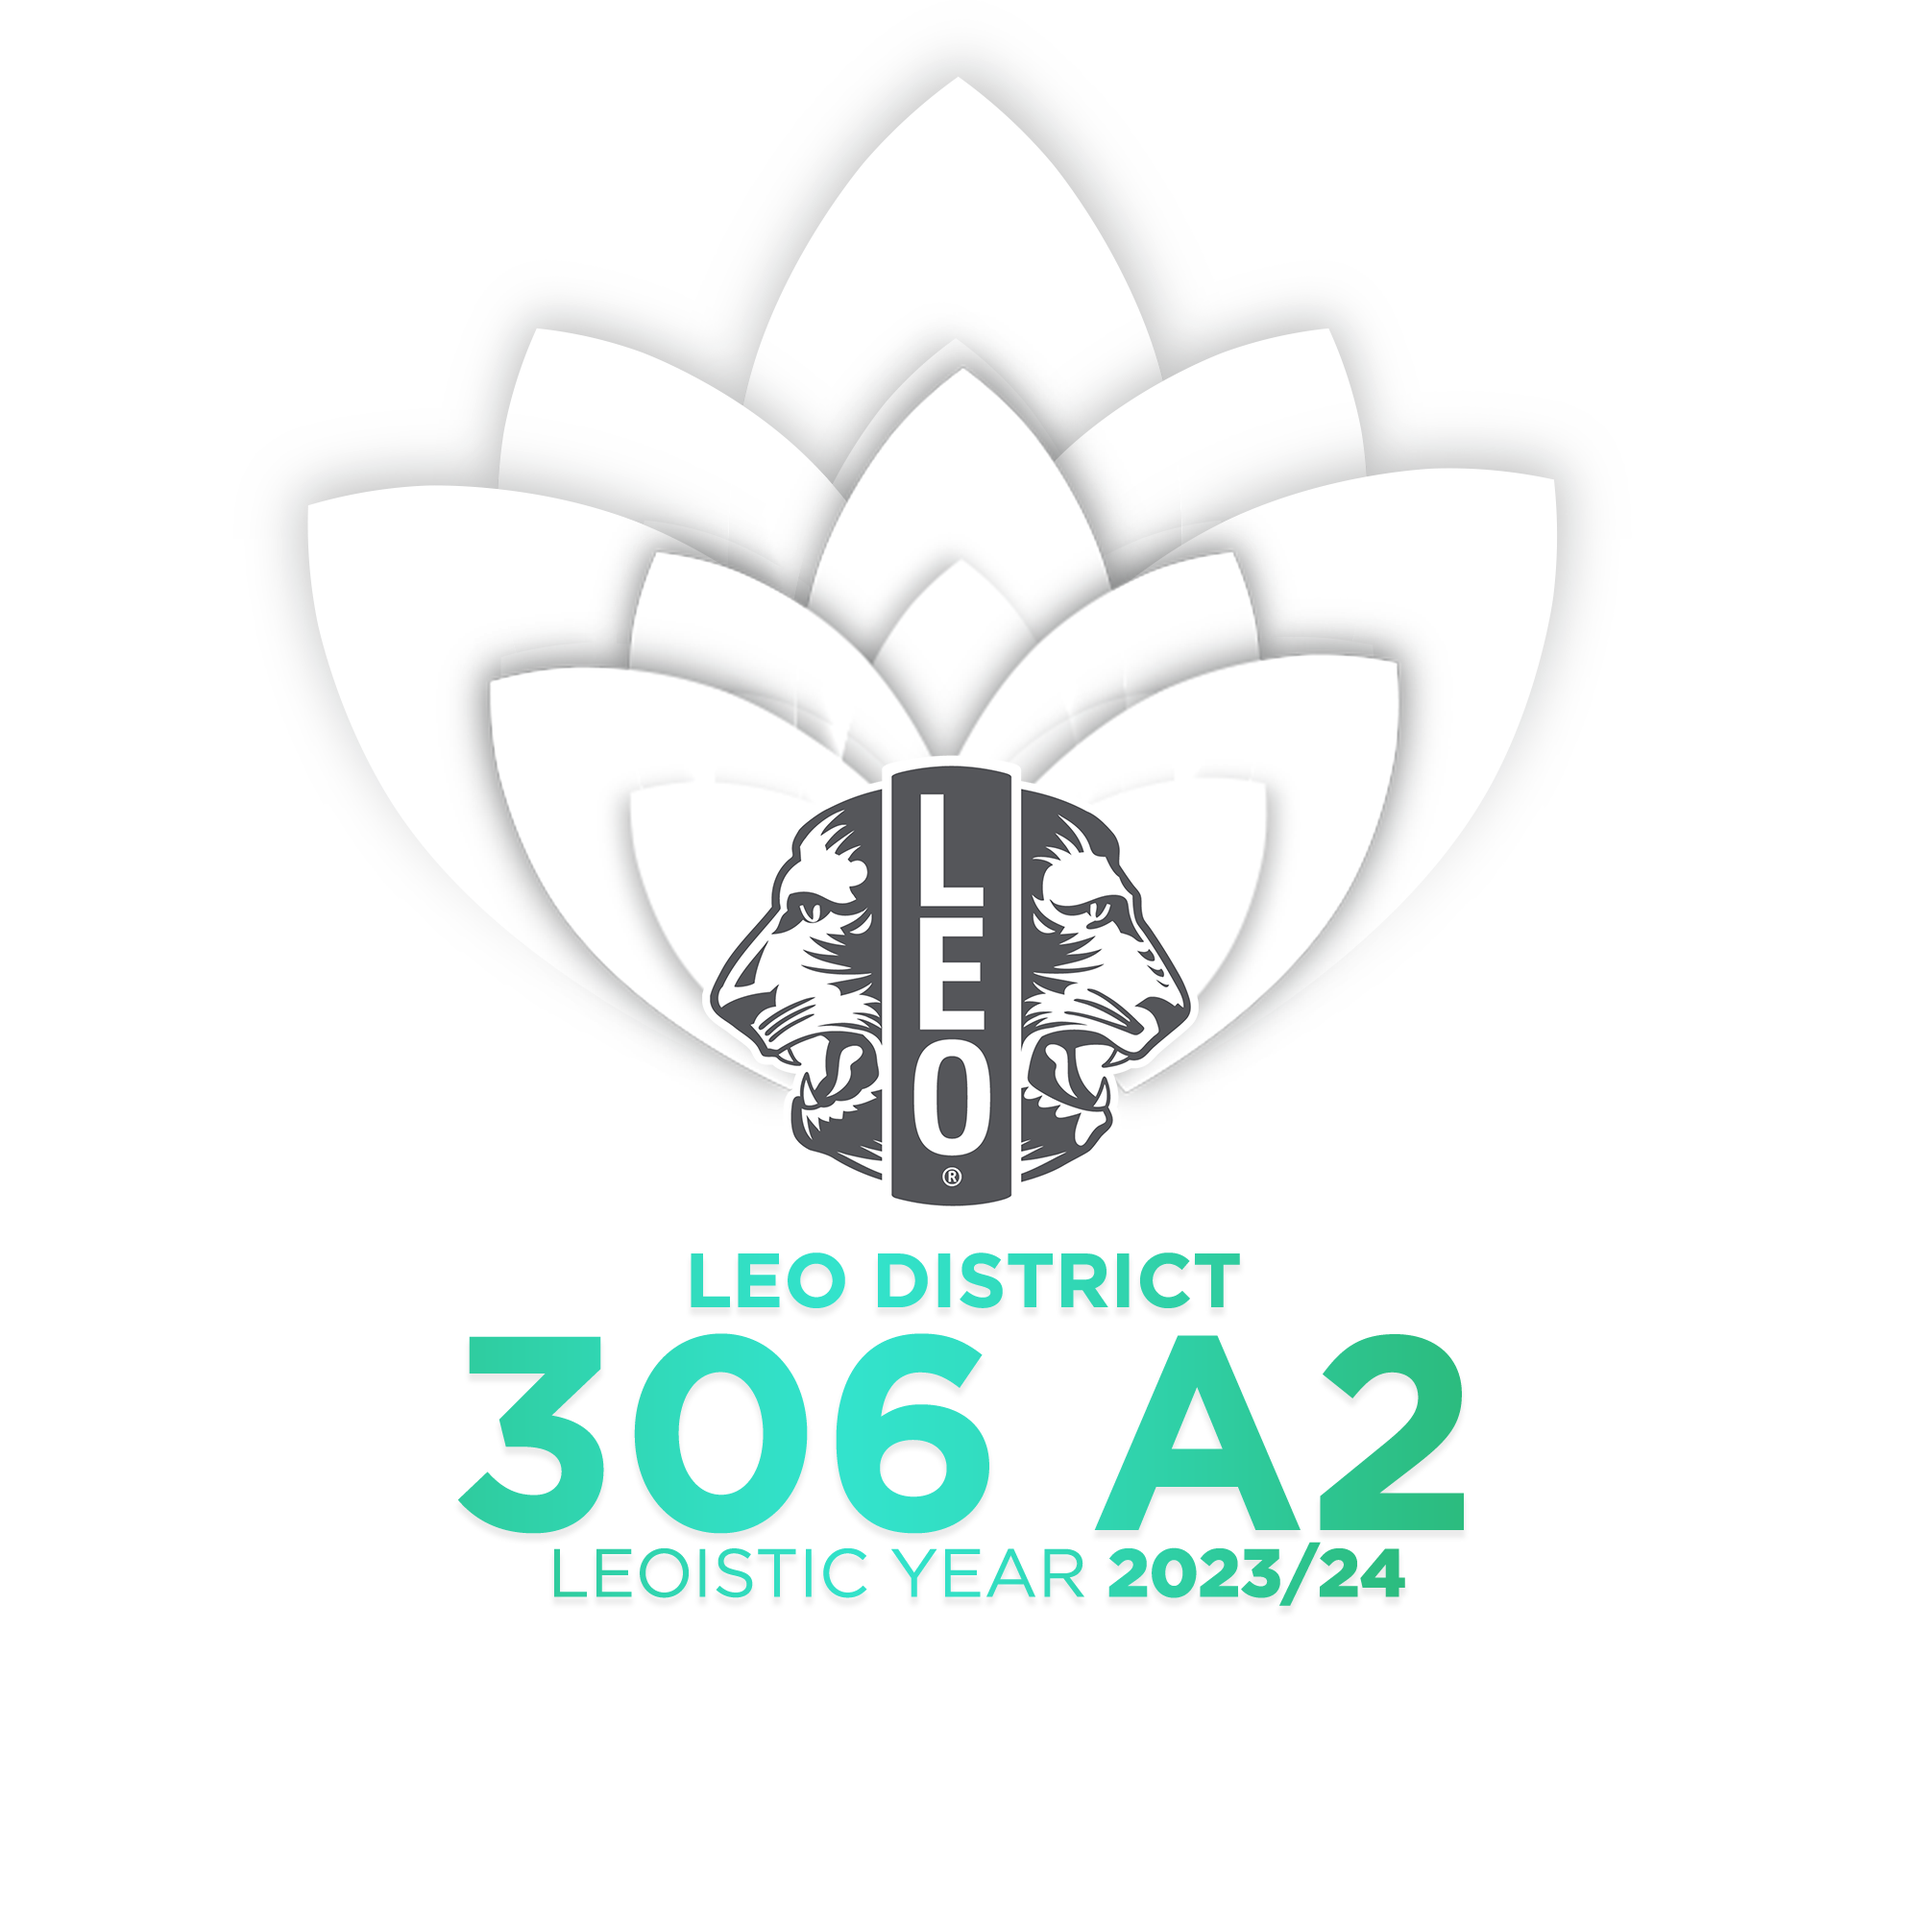
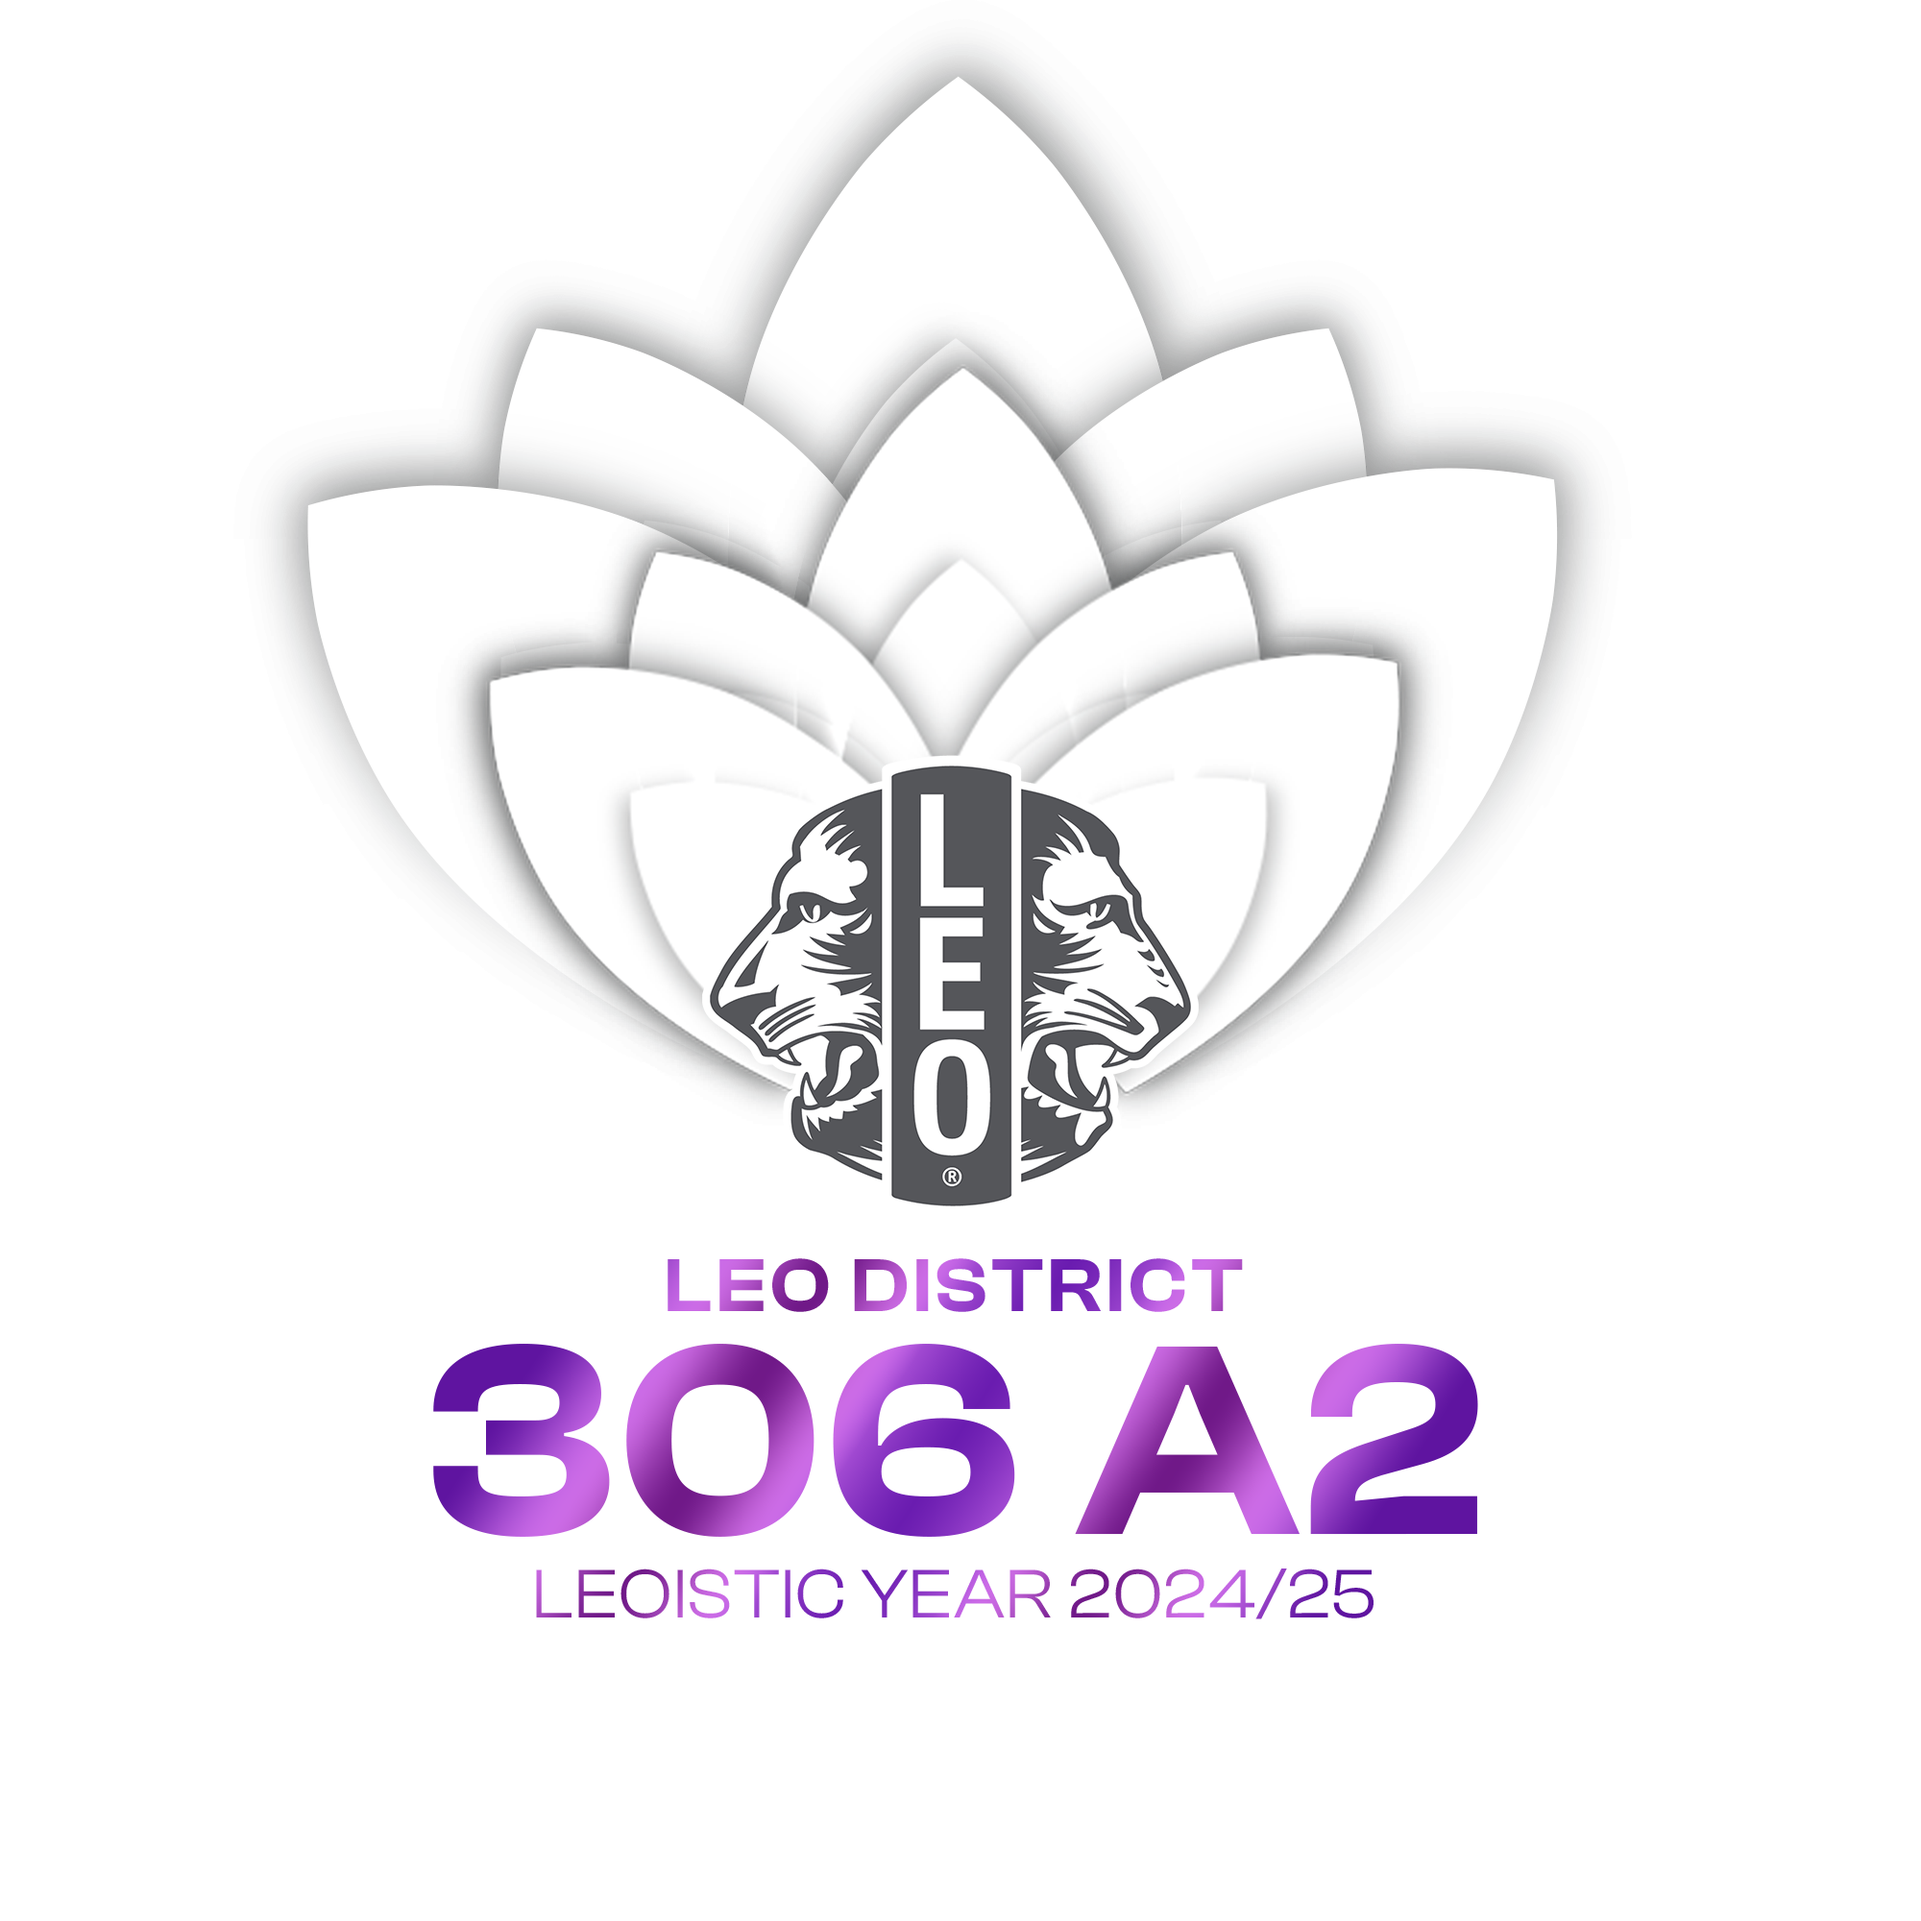
Update Home Page

diff --git a/assets/css/style.css b/assets/css/style.css
@@ -352,6 +352,7 @@ A2 CLUBS SECTION
 .nav-menu ul {
   margin: 0;
   padding: 0;
+  padding-right: 50px;
   list-style: none;
 }
 
@@ -473,7 +474,7 @@ A2 CLUBS SECTION
   font-size: 48px;
   display: inline-block;
   margin-bottom: 10px;
-  color: #46d1bf;
+  color: #cb6ce6;
 }
 
 #contact .contact-info address, #contact .contact-info p {
@@ -634,7 +635,7 @@ A2 CLUBS SECTION
 }
 
 .join-now {
-  background: linear-gradient(to right, #141542, #2bb673);
+  background: linear-gradient(to right, #3a0a64, #cb6ce6);
   border-radius: 50px 0 0 50px;
   border-right: 1px solid rgba(0, 0, 0, 0.2);
 }
@@ -651,16 +652,16 @@ A2 CLUBS SECTION
 
 .sign-in, .signed-user {
   border-radius: 0 50px 50px 0;
-  background: linear-gradient(to left, #141542, #2bb673);
+  background: linear-gradient(to left, #3a0a64, #cb6ce6);
   border-left: 1px solid rgba(0, 0, 0, 0.2);
 }
 
 .join-now:hover {
-  background: linear-gradient(to left, #141542, #2bb673);
+  background: linear-gradient(to left, #3a0a64, #cb6ce6);
 }
 
 .sign-in:hover, .signed-user:hover {
-  background: linear-gradient(to right, #141542, #2bb673);
+  background: linear-gradient(to right, #3a0a64, #cb6ce6);
 }
 
 .appointment-btn:hover {
@@ -933,7 +934,7 @@ section {
   margin-bottom: 20px;
   padding-bottom: 20px;
   position: relative;
-  color: #46d1bf;
+  color: #cb6ce6;
 
 }
 
@@ -958,7 +959,7 @@ section {
   display: block;
   width: 40px;
   height: 3px;
-  background: #46d1bf;
+  background: #cb6ce6;
   bottom: 0;
   left: calc(50% - 20px);
 }
@@ -1647,7 +1648,7 @@ section {
   font-size: 48px;
   display: block;
   font-weight: 700;
-  color: #46d1bf;
+  color: #cb6ce6;
 }
 
 .counts2 .counters span {
@@ -2428,7 +2429,7 @@ section {
 #footer .social-links a , .view-club-social-link a{
   font-size: 18px;
   display: inline-block;
-  background: #46d1bf;
+  background: #cb6ce6;
   color: #fff;
   line-height: 1;
   padding: 9px 0;
@@ -2537,7 +2538,7 @@ section {
 }
 
 .nav-pills .nav-link.active {
-  background-color: #2bb673!important;
+  background-color: #6a1cb0!important;
   font-weight: bold;
 }
 
@@ -2548,19 +2549,19 @@ section {
 .nav-tabs .nav-link {
   color: white;
   border: none;
-  border-bottom: 1px solid #2bb673;
+  border-bottom: 1px solid #6a1cb0;
 }
 
 .nav-tabs .nav-item.show .nav-link, .nav-tabs .nav-link.active {
   background-color: transparent!important;
-  border: 1px solid #2bb673;
+  border: 1px solid #6a1cb0;
   border-bottom: none!important;
   font-weight: bold;
   color: white;
 }
 
 .nav-tabs .nav-link:hover {
-  border-bottom-color: #2bb673;
+  border-bottom-color: #6a1cb0;
 }
 
 .club-list ul li {
@@ -2642,7 +2643,7 @@ section {
   height: 36px;
   font-size: 12px;
   font-weight: bold;
-  background-color: #46d1bf;
+  background-color: #cb6ce6;
   border-radius: 50%;
   border: none;
   color: white;

diff --git a/index.html b/index.html
@@ -97,7 +97,7 @@
             </ul>
         </nav><!-- .nav-menu -->
 
-        <a href="pages/directory/index.html"><div class="directory" data-toggle="modal" data-target="#directory-modal"><img src="assets/img/directory/app_logo.png" alt="A2 Directory"></div></a>
+        <!-- <a href="pages/directory/index.html"><div class="directory" data-toggle="modal" data-target="#directory-modal"><img src="assets/img/directory/app_logo.png" alt="A2 Directory"></div></a> -->
         <a href="#" class="appointment-btn join-now scrollto" data-toggle="modal" data-target="#join-us-modal">Join Us</a>
         <a href="#sign-in" id="sign-in" class="appointment-btn sign-in" title="Sign in">Sign In</a>
         <a href="#sign-out" id="sign-out" class="appointment-btn signed-user">
@@ -505,7 +505,7 @@
             <div class="row justify-content-center counters">
 
                 <div class="text-center">
-                    <span>THRIVE THROUGH TOGETHERNESS</span>
+                    <span>CHANGE EMPOWERED THROUGH LEADERSHIP & SERVICE</span>
                     <h4>Leo District 306 A2</h4>
                 </div>
 
